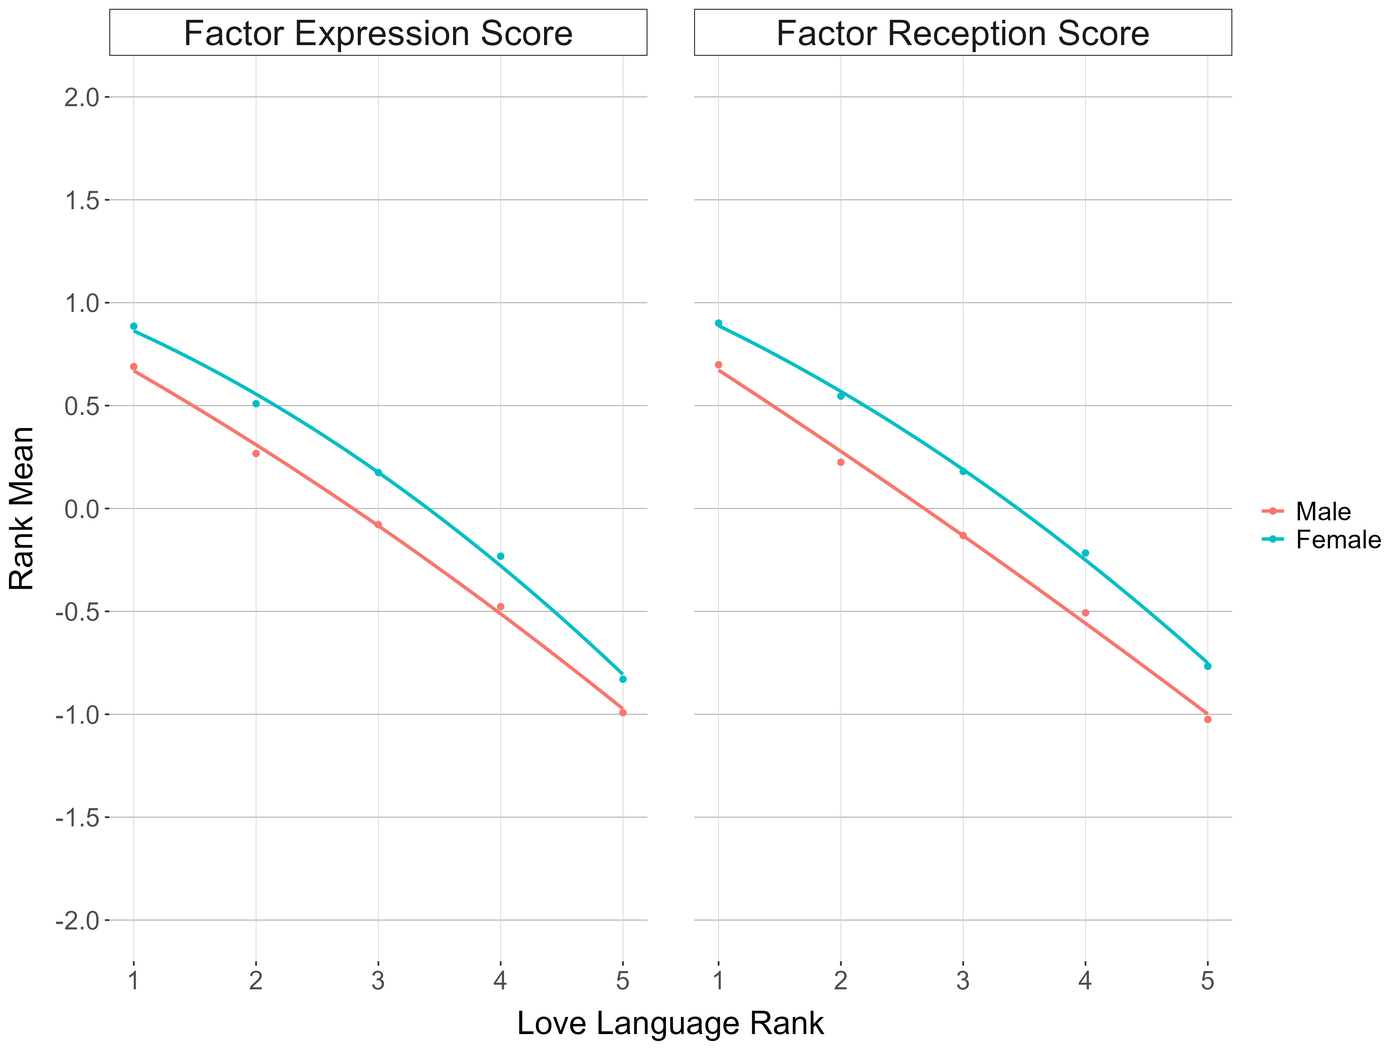
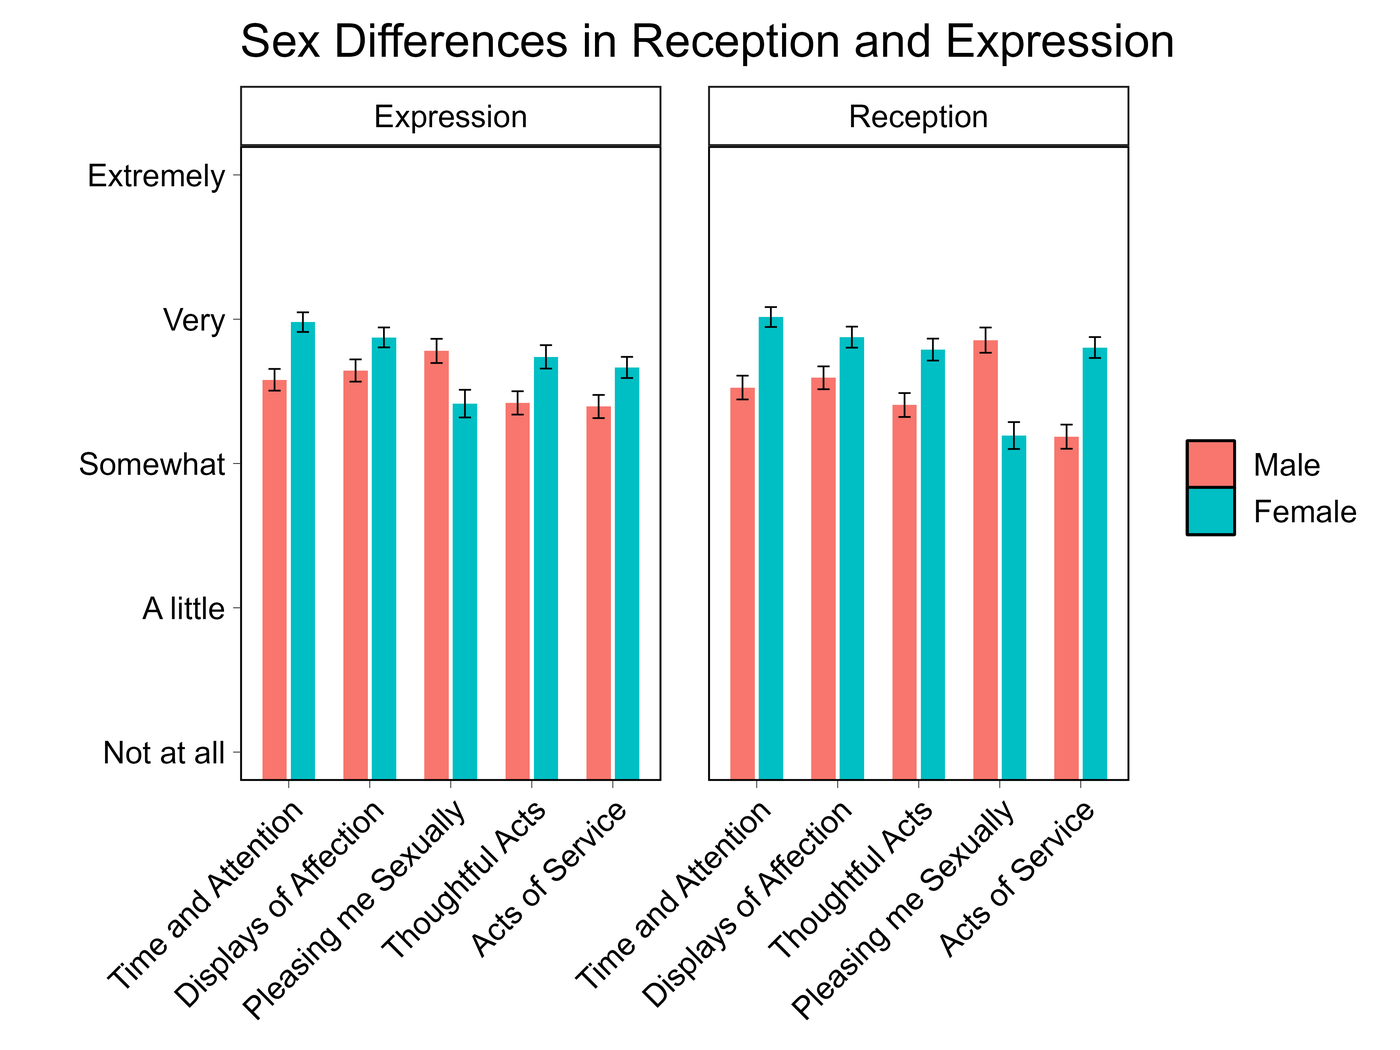
Use the sex differences figure for the love languages thesis
Swaps the rank-mean plot for the grouped bar chart of mean ratings by
sex, which carries the more striking result: women rated every love
language higher than men except "pleasing me sexually", the only one
men rated higher, in both expression and reception.

Taken from the SPSP 2025 poster rather than the guest lecture, because
the guest lecture's copy has its title clipped mid-word.

diff --git a/docs/papers.html b/docs/papers.html
@@ -324,8 +324,8 @@ Full abstract
 <!-- ------------------------------------------------------------------ -->
 <div class="paper">
 <div class="paper-figure">
-<p><img src="files/figures/five-love-languages.png" class="img-fluid" alt="Two panels, factor expression score and factor reception score, plotting rank mean against love language rank for men and women. Both sexes show the same declining pattern."></p>
-<p>Rank means decline the same way for men and women across both the expression and reception formats.</p>
+<p><img src="files/figures/five-love-languages.png" class="img-fluid" alt="Grouped bar chart of mean ratings for five love languages, split by sex, shown separately for expression and reception. Women rate every love language higher than men except pleasing me sexually, where men rate higher."></p>
+<p>Women rated every love language higher than men did — except <em>pleasing me sexually</em>, the only one men rated higher, in both the expression and reception formats.</p>
 </div>
 <div class="paper-body">
 <div class="paper-meta">
